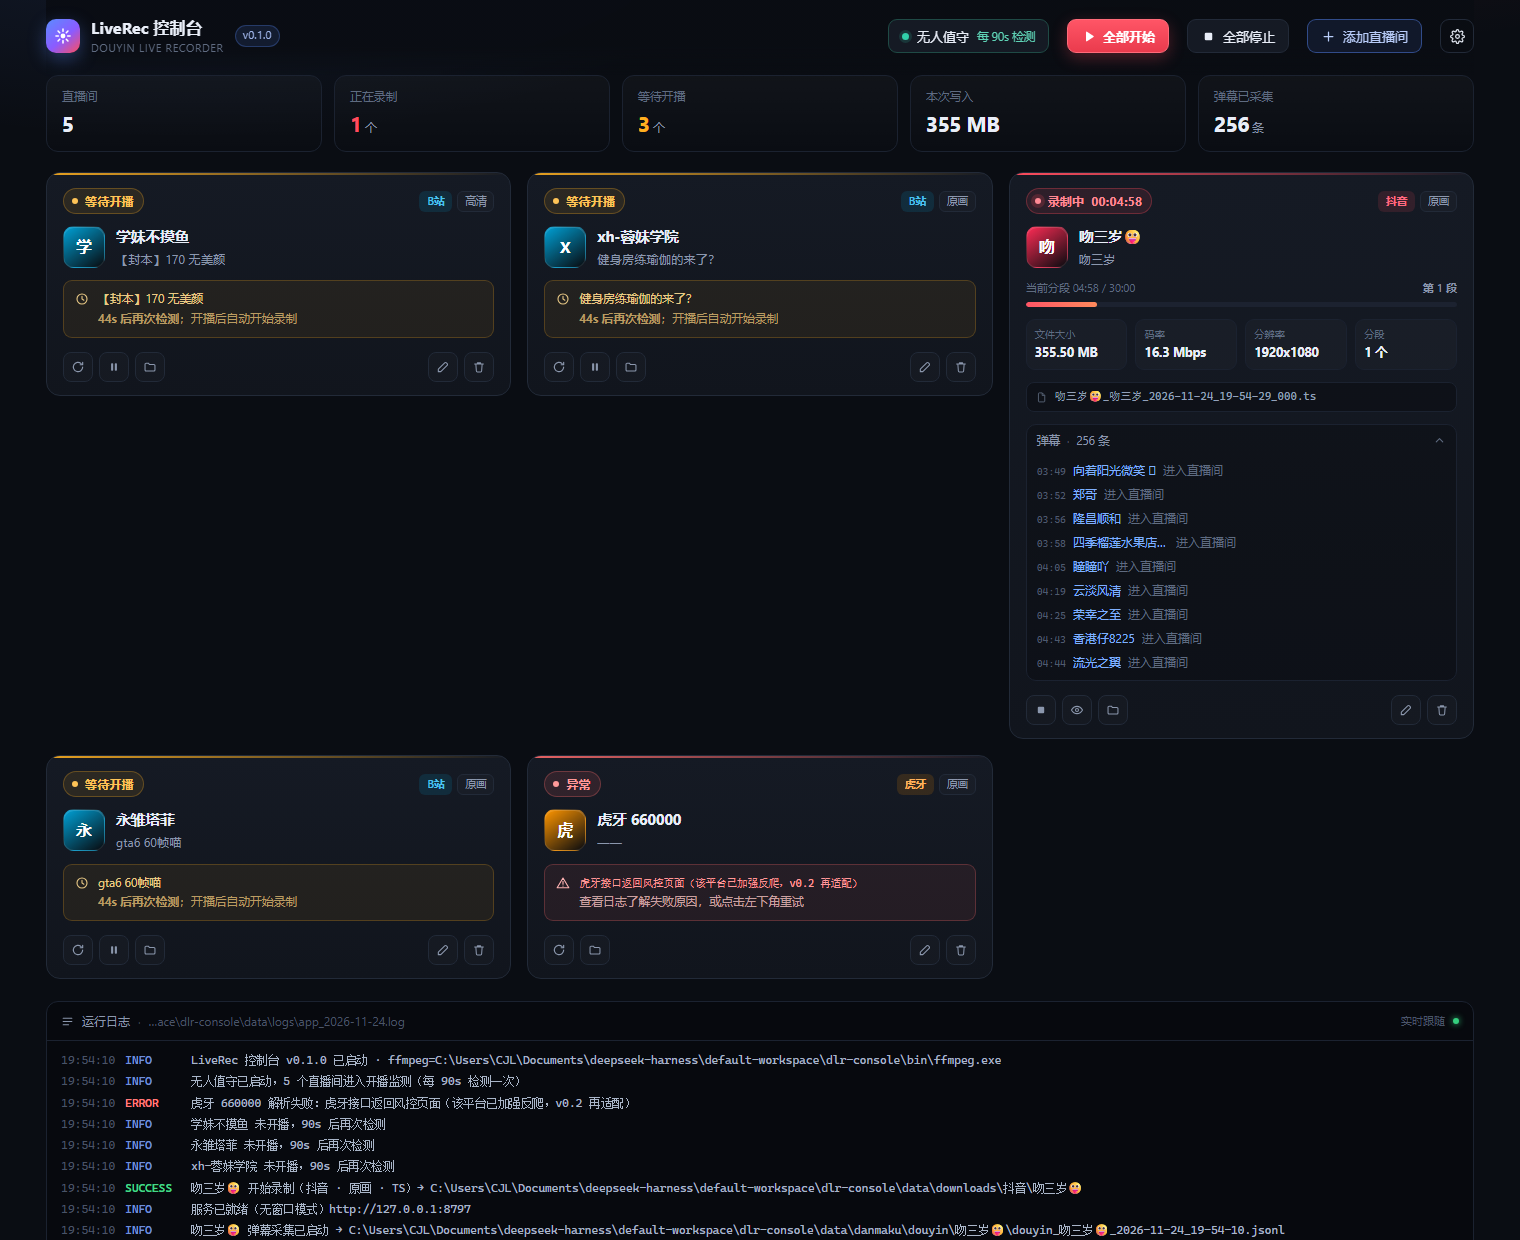
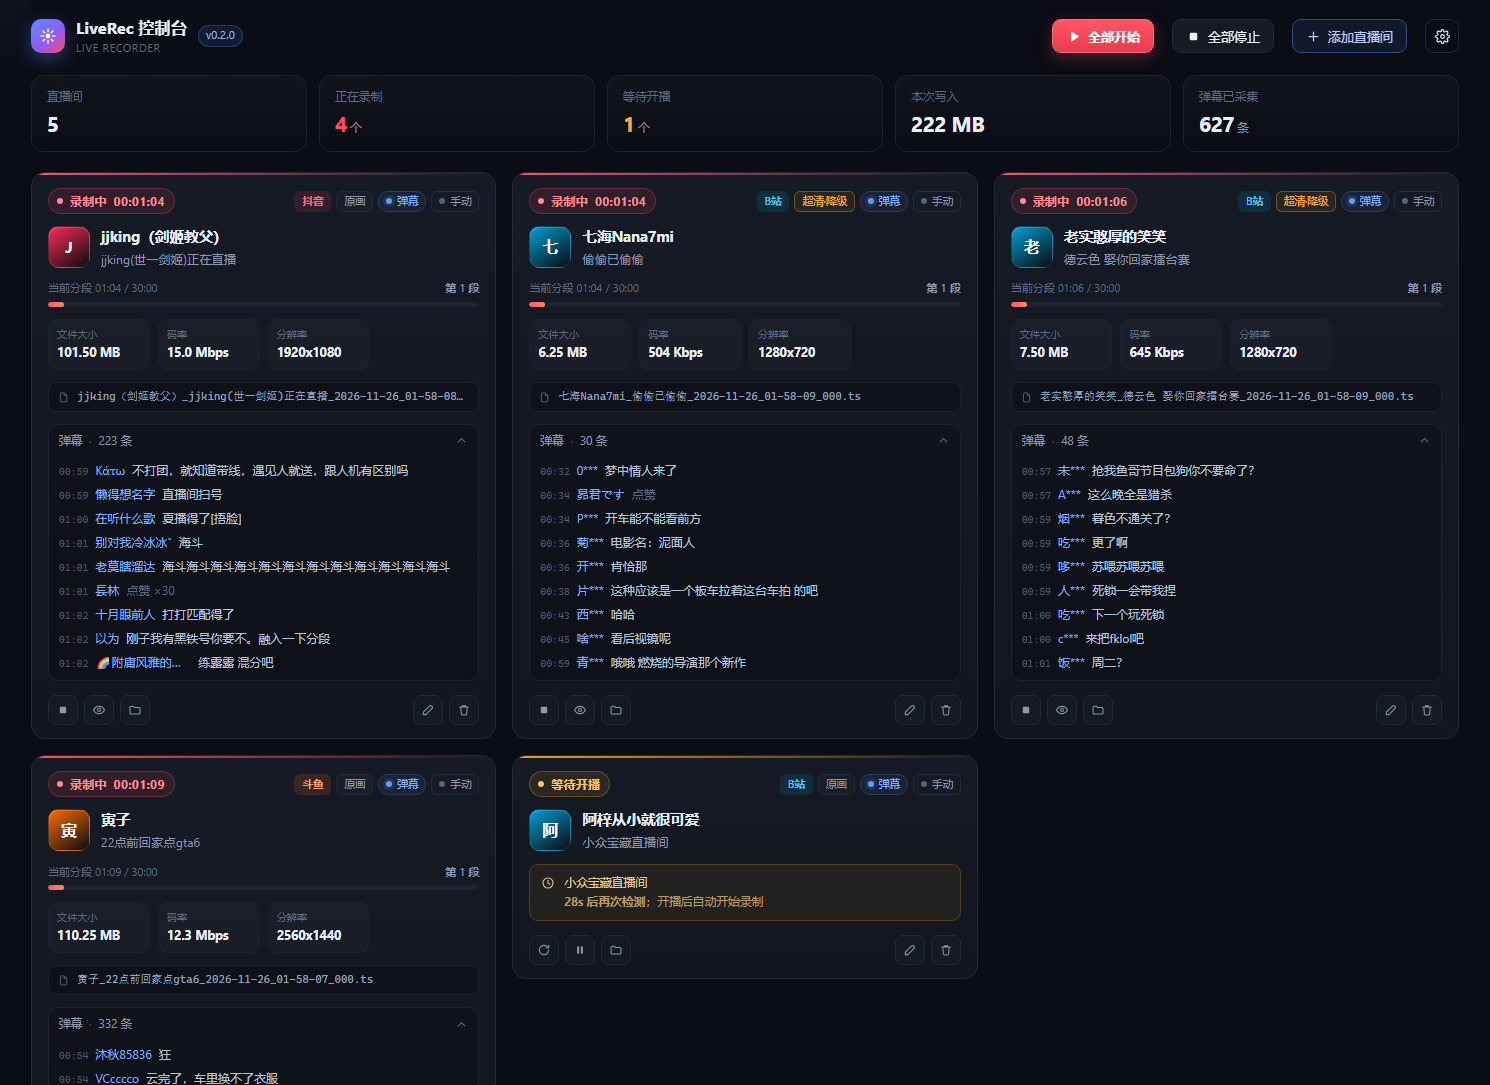
docs: 重截 README 截图（v0.2.0 真实界面），清掉过期旧图

diff --git a/README.md b/README.md
@@ -1,5 +1,8 @@
 # LiveRec 控制台
 
+抖音 / B站 / 斗鱼 多房间直播录制 + 弹幕采集（虎牙录制暂时下线），单文件 exe，内置 ffmpeg。
+
+![主界面：多房间同时录制，每张卡片带弹幕与自动/手动开关](docs/screenshot-main.png)
 
 ## 功能
 
@@ -111,11 +114,19 @@ ffmpeg 解析相对 URI 时会丢掉 playlist 上的签名 query（`expires/sign
 
 > 窗口用 Edge/Chrome 的 `--app` 无地址栏模式打开（Win10/11 自带 Edge，无需额外安装）。
 
+启动画面（分阶段进度条，服务就绪后自动切到控制台）：
+
 ![启动画面](docs/screenshot-splash.png)
 
-![卡片上的自动/手动开关](docs/screenshot-auto.png)
+「添加直播间」：粘贴链接后自动识别平台/主播/开播状态，画质下拉换成这个房间的真实档位：
 
-![托盘常驻运行](docs/screenshot-tray.png)
+![添加直播间](docs/screenshot-add.png)
+
+每张卡片右上角两个独立开关——绿「自动」= 下次启动自动监测、灰「手动」= 保持待机；蓝「弹幕」= 这场是否采弹幕：
+
+![卡片上的自动/弹幕开关](docs/screenshot-main.png)
+
+托盘常驻：关掉窗口录制照常继续，右键托盘图标可以唤回控制台 / 全部开始 / 全部停止 / 打开录制目录 / 切换无人值守 / 退出。
 
 ### 用源码
 
@@ -166,9 +177,13 @@ data/
 
 界面右上角齿轮打开「全局设置」，写回 `data/config/config.ini`：默认画质、保存格式（ts/mkv/flv/mp4/mp3/m4a）、保存路径、**弹幕保存路径（留空 = 跟随每场录像目录下的 `danmaku/`）**、**ffmpeg 路径（留空 = 用程序内置的 `bin/ffmpeg.exe`）**、循环检测间隔（秒）、开播检测间隔（无人值守，秒，默认 60）、并发解析线程数、分段录制与单段时长（秒）、代理开关与地址、四个平台的 cookie（打码显示，留空不覆盖）。设置弹窗与「添加/编辑直播间」弹窗都只能用右上角的 ✕ 关闭。
 
+![全局设置：保存路径 / 弹幕路径 / ffmpeg 路径 / 检测间隔 / 代理 / 四平台 Cookie](docs/screenshot-settings.png)
+
 ### 自定义 ffmpeg
 
 设置里「ffmpeg 路径」填 `ffmpeg.exe` 的完整路径（例如 `D:\tools\ffmpeg\bin\ffmpeg.exe`），留空就回到内置那份：
+
+![ffmpeg 路径与当前生效值](docs/screenshot-ffmpeg.png)
 
 - 保存时会校验文件是否存在，填错直接报错、不会写入配置（免得所有录制突然全失败）；
 - 立即生效——**新开始/新续段**的录制会用新路径，已经在跑的进程不会被重启（停止再开始即可切换）；
